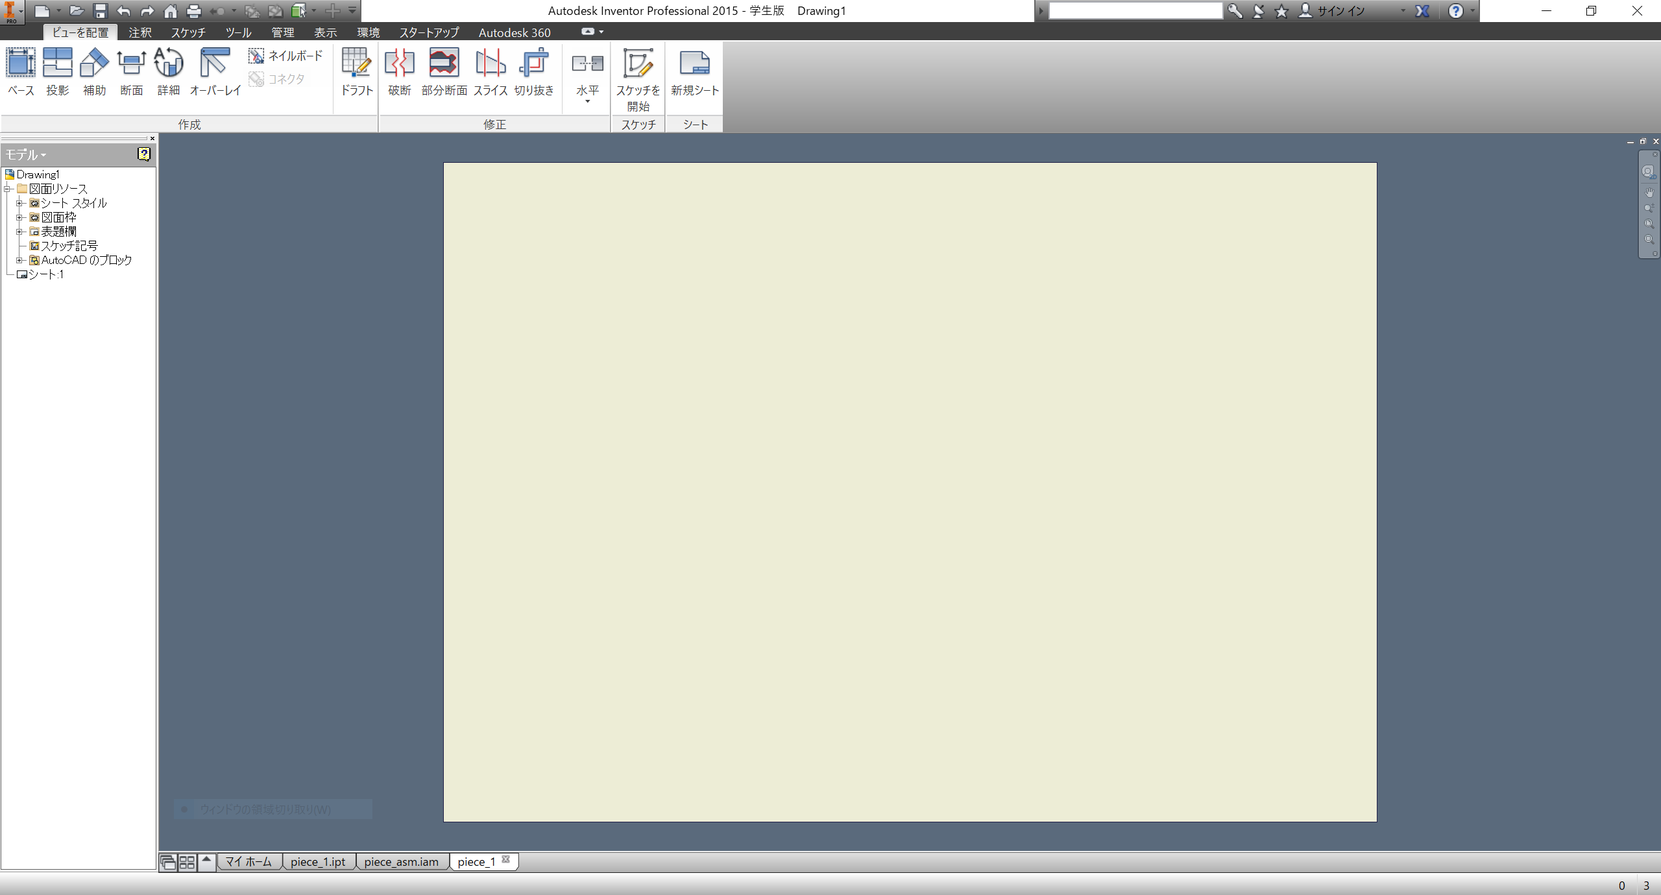
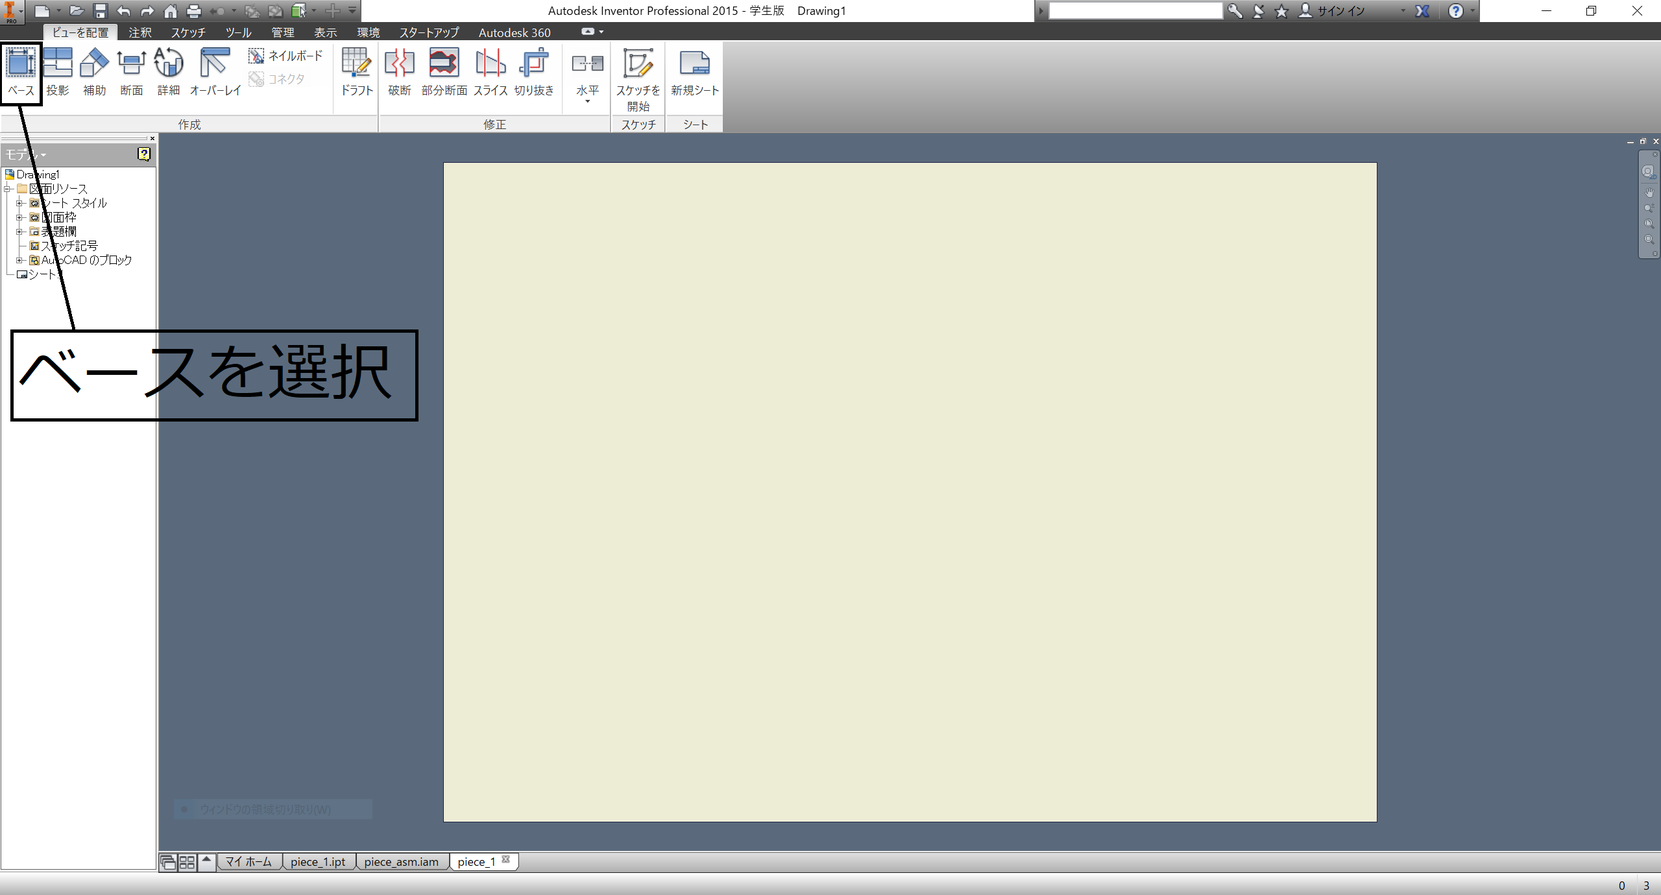
ファイルを移動したり追加したりした

Changed region(s): [[0.0, 0.3428, 0.25, 0.4986], [0.0, 0.0935, 0.0312, 0.1246], [0.0, 0.0312, 0.0312, 0.0623]]

diff --git a/tex/p-report.tex b/tex/p-report.tex
@@ -217,34 +217,35 @@
 \paragraph{ここからを実践編とします。具体的には、\\\\
 工程1.CADソフト(inventor)での部品設計\\
 工程2.CAMソフト(Cut2D)でのツールパス設計\\
-工程3.CNC(RD300)での作業、清掃\\\\
+工程3.CNC(RD300,USBCNC)での作業、清掃\\\\
 という順番で切削部品の製作を行います。
-まず工程1では、CADによる部品の設計と、経路設計に必要な外形線を含むvector形式ファイルの作成を行います。この工程では、製作する部品の二次元情報からvector形式ファイルを作ります。次に工程2では、工程1で作成したvector形式ファイルを元にして、実際に加工を行う経路を設計し、NCデータの作成を行います。この工程で、vector形式ファイルの調整と、切削を行う深さ情報を加えた三次元のツールパスの設計を行います。最後に工程3ではE、工程2で設計したNCファイルをCNCで読み込み、実際の切削を行います。}
+まず工程1では、CADによる部品の設計と、経路設計に必要な外形線を含むvector形式ファイルの作成を行います。この工程では、製作する部品の二次元情報からvector形式ファイルを作ります。次に工程2では、工程1で作成したvector形式ファイルを元にして、実際に加工を行う経路を設計し、NCデータの作成を行います。この工程で、vector形式ファイルの調整と、切削を行う深さ情報を加えた三次元のツールパスの設計を行います。最後に工程3では、工程2で設計したNCファイルをUSBCNCで読み込み、実際の切削を行います。}
 
 \section{工程1.CADソフト(inventor)での部品設計}
 \paragraph{今回はinventorを使って設計を行います。学生であれば学生用のライセンスがオンラインからすぐに使え、ドキュメントも充実しているのが良い点です。}
 
 \subsection{基本的な部品設計}
-\paragraph{CNCで加工が可能な部品の形状には限りがあり、基本的に底面に平行な平面またはと底面に垂直な側面の集合のみを持つ立体である必要があります。基本的には板材から切り出せる形状のパーツであれば加工で製作することが加能です。曲面を含む三次元的な部品の場合も、前述のボールエンドミルを使えば加工は可能ですが、ここでは簡単のため説明しません。}
+\paragraph{CNCで加工が可能な部品の形状には限りがあり、基本的に底面に平行な平面またはと底面に垂直な側面の集合のみを持つ立体である必要があります。基本的には板材から切り出せる形状のパーツであれば加工で製作することが加能です。曲面を含む三次元的な部品の場合も、前述のボールエンドミルを使えば加工は可能ですが、ここでは簡単のため説明しません。今回の実践編では、以下のようなパーツを加工します。}
 
-画像6 部品の例のCAD図　piece_1_hoge.png
+画像*2 部品の例のCAD図　piece_1_hoge.png piece_1_dft2.png
 
 \subsection{部品設計で気を付けること}
 \paragraph{CNCで切削加工を行う部品を設計する上で、エンドミルによる加工を理解する必要があります。具体的には、切削される領域は円が移動した領域であることに注意しなければいけません。例えば、図hogeの設計では、外形の周囲をそのまま削ると、角の部分の内側に削り残しが生じます。はめ込みを行うパーツなどの場合、その削り残し部分が干渉する場合があります。そのため、円形の切り抜きをあらかじめ設計に追加しておくことで、角の部分をすべて削りきることができます。また、外形の線に沿ってエンドミルが動くという性質から、エンドミルの直径と同じ径の穴をあけることは基本的にできません。この問題の解決方法としては、穴径をエンドミル径より微妙に大きくするなどが挙げられ、工程2で詳細を書きます。また、当然ですがCNCで加工が可能な領域より大きな部品を作ることはできません。今回説明に使うRD300というCNCでは、加工領域が220mm*300mmであるため、加工できるのはそのサイズまでということになります。}
 
-画像7 部品の例のCAD図(ダメな方)　with説明
+画像*2 部品の例のCAD図(ダメな方)　piece_1_ue5.png piece_1_ue4.png
+画像*2 切り抜く部分と切り抜いた後の画像　piece_1_ue6.png piece_1_ue3.png
 
 \subsection{vector形式ファイルの作成}
 \paragraph{inventorでの部品作成が終わったら、CADの図面作成機能を用いて、vector形式のファイルを作成します。Cut2Dで読み込めるvector形式ファイルにはdxf,pdf形式などがありますが、ここではpdfを用います。vector形式ファイル作成の際に気をつけることとしては、\\
 1.縮尺を1:1にする\\
 2.図面中の部品名や図表などを削除する\\
-3.図面中に隠線を残さない\\
-などが挙げられます。縮尺を1:1にするのは部品のサイズを設計した通りに加工するため、図面中の図表・隠線を消すのはCut2Dで経路を作る時に余計な線をなるべく残さないため行います。inventorの場合、縮尺は図fugaの部分で設定を行います。また、図表は左のバーのJISうんたらの部分を右クリック→削除で消すことができます。それが終わったら、pdf形式で保存を行ってください。}
+3.図面中に隠線を表示しない\\
+などが挙げられます。縮尺を1:1にするのは部品のサイズを設計した通りに加工するため、図面中の図表・隠線を消すのはCut2Dで経路を作る時に余計な線をなるべく残さないため行います。inventorの場合、縮尺は図fugaの部分で設定を行います。また、図表は左のバーのJISうんたらの部分を右クリック→削除で消すことができます。それが終わったら、pdf形式で保存を行ってください。ここまでの工程で、加工したい部品のvector形式のファイルを作成することができました。}
 
-画像8,9,10 vector形式保存の仕方
+画像*4 vector形式保存の仕方 plane nojis window hozon2
 
 \section{工程2.CAMソフト(Cut2D)でのツールパス設計}
-\paragraph{ここではCut2Dでの作業のみを書きます。ポストプロセッサや工具ファイルの設定は各々の環境に合わせて行ってください。作業は以下の順番で行います。
+\paragraph{ここではCut2Dでの作業のみを書きます。ポストプロセッサや工具ファイルの設定は各々の環境に合わせて予め行ってください。作業は以下の順番で行います。
 1.ファイルの読み込み\\
 2.ベクトルの編集\\
 3.経路作成\\
@@ -252,16 +253,18 @@
 5.加工ファイル出力}
 
 \subsection{ファイルの読み込み}
-\paragraph{Cut2Dを開いたら、既存のファイルの読み込み で先ほど作成したpdfファイルを読み込みます。読み込んだ後の設定は図fooを参考に行ってください。材料の厚みは材料ごとに微妙に異なるため、きちんとノギスで測って入力をしてください。厚みが実際の材料より厚いと切削後に削り残しが出る、薄いと過剰に削ってしまってCNCの捨て板を傷つけてしまうなどの問題が生じます。}
+\paragraph{Cut2Dを立ち上げたら、既存のファイルを開く で先ほど作成したpdfファイルを読み込みます。読み込んだ後の設定は図fooを参考に行ってください。材料の厚みは材料ごとに微妙に異なるため、きちんとノギスで測って入力をしてください。厚みが実際の材料より厚いと切削後に削り残しが出る、薄いと過剰に削ってしまってCNCの捨て板を傷つけてしまうなどの問題が生じます。}
 
-画像11 初期設定の画像
+画像*2 ノギスで厚みを測る写真 初期設定の画像 1.png
 
 \subsection{ベクトルの編集}
-\paragraph{厚みを入力したらベクトルの操作に移ります。先ほど作成したvectorファイルを読み込むと、CADによっては学生ライセンスの表示が残っていることがあるため、残っている場合は選択してdeleteキーで削除して下さい。その後、作りたい部品のベクトルを選択し、原点近くまで移動させます。選んだ後にベクトルの移動ボタンを押し、スナップを原点にして移動することで、ベクトルの左下の点を原点に合わせることができます。}
-\paragraph{次に、ベクトルの結合を行います。この操作により、ベクトルを繋げて削りたい領域を作っていきます。繋げたいベクトルをすべて選択し、ベクトルの結合ボタンを押します。どの程度のギャップまでを解決するか入力する場所がありますが、0.1mm程度に設定します。どの程度離れているベクトルを繋げたいかによってこの値は変わるので、適宜自分の作りたいものに合わせて設定してください。}
-\paragraph{最後に、ベクトルの修正を行います。ここでは、穴径の修正を取り上げます。外形の線に沿ってエンドミルが動くという性質から、エンドミルの直径と同じ径の穴をあけることは基本的にできません。穴径を空けたい径よりほんの少しだけ大きくすることで、この問題は解決できます。具体的には、Φ3のエンドミルを使って切削を行う場合、それと同じ径の穴は開けられないため、新しくΦ3.05の円形のベクトルを作って元の穴円のベクトルと中心が合うように配置します。cut2dではデフォルトで円形の中心にスナップしてくれるので便利です。雌ネジを切る穴の径を間違えていた場合などにも、ここで修正を行うことが可能です。配置をしたら、元の穴円は削除しましょう。}
+\paragraph{厚みを入力したら、次にベクトルの結合を行います。この操作により、ベクトルを繋げて削りたい領域を作っていきます。繋げたいベクトルをすべて選択し、ベクトルの結合ボタンを押します。どの程度のギャップまでを解決するか入力する場所がありますが、0.1mm程度に設定します。どの程度離れているベクトルを繋げたいかによってこの値は変わるので、適宜自分の作りたいものに合わせて設定してください。}
 
-画像12,13,14 ロゴ、ベクトル結合、円の切り抜きの説明図
+画像*2 ボタンの説明の画像　ベクトルの結合の画像
+
+\paragraph{最後に、ベクトルの修正を行います。ここでは、穴径の修正を取り上げます。外形の線に沿ってエンドミルが動くという性質から、エンドミルの直径と同じ径の穴をあけることは基本的にできません。穴径を空けたい径よりほんの少しだけ大きくすることで、この問題は解決できます。具体的な例を挙げると、Φ3のエンドミルを使って切削を行う場合、それと同じ径の穴は開けられないため、新しくΦ3.2の円形のベクトルを作って元の穴円のベクトルと中心が合うように配置することで、およそφ3の穴をあけることができます。cut2dではデフォルトで円形の中心にスナップしてくれるので新しくベクトルを配置するのが容易です。また、部品の設計の時に、角の内側の切り抜きを忘れた場合などにも、ここで新しくベクトルを追加することで修正が可能です。その他、四角形やポリラインなど、様々な形のベクトルを追加することができるので、適宜試してみてください。加工に必要なベクトルを追加・結合して、最終的には以下の図のようになります。}
+
+画像 *3 円形ベクトルの追加、ポリラインの追加,最終ベクトル
 
 \subsection{経路作成}
 \paragraph{ベクトルの編集が終わったら、経路の作成を行います。基本的な流れとしては、\\
@@ -269,12 +272,15 @@
 2.経路の種類の選択\\
 3.経路のパラメータの設定\\
 という順番で行います。}
-\paragraph{まず、使用するベクトルを選択します。ドラッグで範囲選択ができたり、shiftを押しながらベクトルをクリックすると複数選択ができたり、ctrl-aで全部選択ができたりするので、うまく使うと幸せになれます。選択するベクトルが多い場合などに重宝すると思うので、使って見てください。}
-\paragraph{次に、作る経路の種類を選択します。経路には切り抜きとポケット加工の2つの種類があります。切り抜きは選択したベクトルの中心や内周・外周に沿ってエンドミルが動く経路です。エンドミルの太さ分の切削幅だけが必要な場合はこちらを使います。内周・外周の切削を行う場合は、ベクトルは閉じたベクトルである必要があります。経路を作る際にはベクトルを選択し、内側の切り抜きか、外側の切り抜きかを選択してください。また、ベクトルの中心を通る経路も作ることが可能であり、こちらは閉じたベクトルである必要はありません。模様や名前の刻印等に使うことが可能です。}
-\paragraph{一方、ポケット加工は選択したベクトルの内部をすべて削る経路です。これは、広い範囲を削って掘り下げる場合に使います。広い範囲を削って部品の厚みを減らしたり、くぼみを作って他の部品をはめ込むような部品を作ることができます。この加工を行う際には、閉じた領域を指定する必要があるため、ベクトルは閉じている必要があります。また、ポケット加工にもラスターとオフセットの2種類が存在します。ラスターは左右に往復しつつ手前から奥に向かってに削っていくものになります。CNCのx,y軸方向に伸びる長方形の領域を削る場合には、方向を変更する回数が少ないこの方式が向いています。一方、オフセットは領域内を中心から外側に向かってぐるぐると回るような経路で切削していくものです。こちらは、円形の領域や、x,y軸に対して斜めになった長方形の領域を削る時に有用です。さらに、エンドミル径とほぼ同じ径の小さい穴を深く掘る際にもポケット加工は有用です。これはエンドミルの形状が原因で、切り屑が穴の外に逃げにくい形状になっているのですが、ポケット加工で加工を行うことで、1層切削する度にエンドミルが穴から抜けてくれて、切りくずが外に出やすくなるため、切り屑が穴の中にたまりにくく、深く掘り進むのに向いています。}
-\paragraph{次に経路のパラメータの設定を行います。ノギスを用いて計測した厚みと、自分の設計した部品の構造を考えて、各種経路の切削深さを入力してください。また、厚みの精度を出したい場合は、前述のポケット加工を使って広い範囲を削ります。例えば、実測値が5.7mmの樹脂板の場合、0.7mmの深さのポケット加工を行うことで厚みを正確に5mmにすることができます。}
 
-画像15,16,17 通常経路、ポケット加工、パラメータの説明(経路にマージしてもいいかも)
+画像*1 工具経路のボタンの説明
+
+\paragraph{まず、使用するベクトルを選択します。ドラッグで範囲選択ができたり、shiftを押しながらベクトルをクリックすると複数選択ができたり、ctrl-aで全部選択ができたりするので、うまく使うと幸せになれます。選択するベクトルが多い場合などに重宝すると思うので、使って見てください。}
+\paragraph{次に、作る経路の種類を選択します。経路には輪郭加工経路とポケット加工経路の2つの種類があります。輪郭加工経路は選択したベクトルの中心や内周・外周に沿ってエンドミルが動く経路です。エンドミルの太さ分の切削幅だけが必要な場合はこちらを使います。内周・外周の切削を行う場合は、ベクトルは閉じたベクトルである必要があります。経路を作る際にはベクトルを選択し、内側の加工か、外側の加工かを選択してください。また、ベクトルの中心を通る経路も作ることが可能であり、こちらは閉じたベクトルである必要はありません。模様や名前の刻印等に使うことが可能です。}
+\paragraph{一方、ポケット加工経路は選択したベクトルの内部をすべて削る経路です。これは、広い範囲を削って掘り下げる場合に使います。広い範囲を削って部品の厚みを減らしたり、くぼみを作って他の部品をはめ込むような部品を作ることができます。この加工を行う際には、閉じた領域を指定する必要があるため、ベクトルは閉じている必要があります。また、ポケット加工経路にもオフセットとラスタの2種類が存在します。オフセットは領域内を中心から外側に向かってぐるぐると回るような経路で切削していくものです。こちらは、円形の領域や、x,y軸に対して斜めになった長方形の領域を削る時に有用です。さらに、エンドミル径とほぼ同じ径の小さい穴を深く掘る際にもポケット加工は有用です。これはエンドミルの形状が原因で、切り屑が穴の外に逃げにくい形状になっているのですが、ポケット加工で加工を行うことで、1層切削する度にエンドミルが穴から抜けてくれて、切りくずが外に出やすくなるため、切り屑が穴の中にたまりにくく、深く掘り進むのに向いています。一方、ラスターは左右に往復しつつ手前から奥に向かってに削っていくものになります。CNCのx,y軸方向に伸びる長方形の領域を削る場合には、方向を変更する回数が少ないこの方式が向いています。}
+\paragraph{次に経路のパラメータの設定を行います。ノギスを用いて計測した厚みと、自分の設計した部品の構造を考えて、各種経路の切削する深さを入力してください。また、厚みの精度を出したい場合は、前述のポケット加工を使って広い範囲を削ります。例えば、実測値が5.7mmの樹脂板の場合、0.7mmの深さのポケット加工を行うことで厚みを正確に5mmにすることができます。}
+
+画像*3 通常経路、ポケット加工、パラメータの説明(経路にマージしてもいいかも)
 
 \section{工程3.CNC(RD300,USBCNC)での作業、清掃}
 \paragraph{ここでは、実際のCNCでの作業を順を追って説明します。基本的な流れとしては、
@@ -330,7 +336,7 @@
 画像34,35 鏡面複製後
 
 \chapter{最後に}
-\paragraph{これでCNC切削加工入門は終わりです。近年3Dプリンタやレーザー加工機の普及によって、ハードウェアの製作のハードルが下がっていると感じています。それらを用いることで、確かに容易に速く部品の製作・試作を行えます。しかし、作ることができる部品の剛性や精度の観点から、用途によってはCNCでの切削加工が必要になります。またCNC切削の場合でも、CADに付属しているCAMの中には、モデルを入れるだけで自動で加工経路を設計してくれるものもあります。ですが、自分でベクトルを作るところから経路の設計まで一通り行えると、より切削加工の自由度が高くなると思います。このような思いから、CNC加工を広めたいと感じて、CNC切削加工入門を書くのに至りました。こうして文章化することで、改めてハードウェア製作のハードルの高さを感じました。だからこそ実践に頼りがちになると思うので、逆説的にこうしてまとめた価値もあったのかと思います。ぜひ皆さんもCNC加工をしてみて下さい。時代は切削!}
+\paragraph{これでCNC切削加工入門は終わりです。近年3Dプリンタやレーザー加工機の普及によって、ハードウェアの製作のハードルが下がっていると感じています。それらを用いることで、確かに容易に速く部品の製作・試作を行えます。しかし、作ることができる部品の剛性や精度の観点から、用途によってはCNCでの切削加工が重要になります。また、CNC切削の場合でも、CADに付属しているCAMの中には、モデルを入れるだけで自動で加工経路を設計してくれるものもあります。ですが、自分でベクトルを作るところから経路の設計まで一通り行えると、より切削加工の自由度が高くなると思います。このような思いから、CNC加工を広めたいと感じて、CNC切削加工入門を書くのに至りました。こうして文章化することで、改めてハードウェア製作のハードルの高さを感じました。だからこそ実践に頼りがちになると思うので、逆説的にこうしてまとめた価値もあったのかと思います。ぜひ皆さんもCNC加工をしてみて下さい。時代は切削!}
 
 \bibliographystyle{junsrt}
 \bibliography{p-report}
